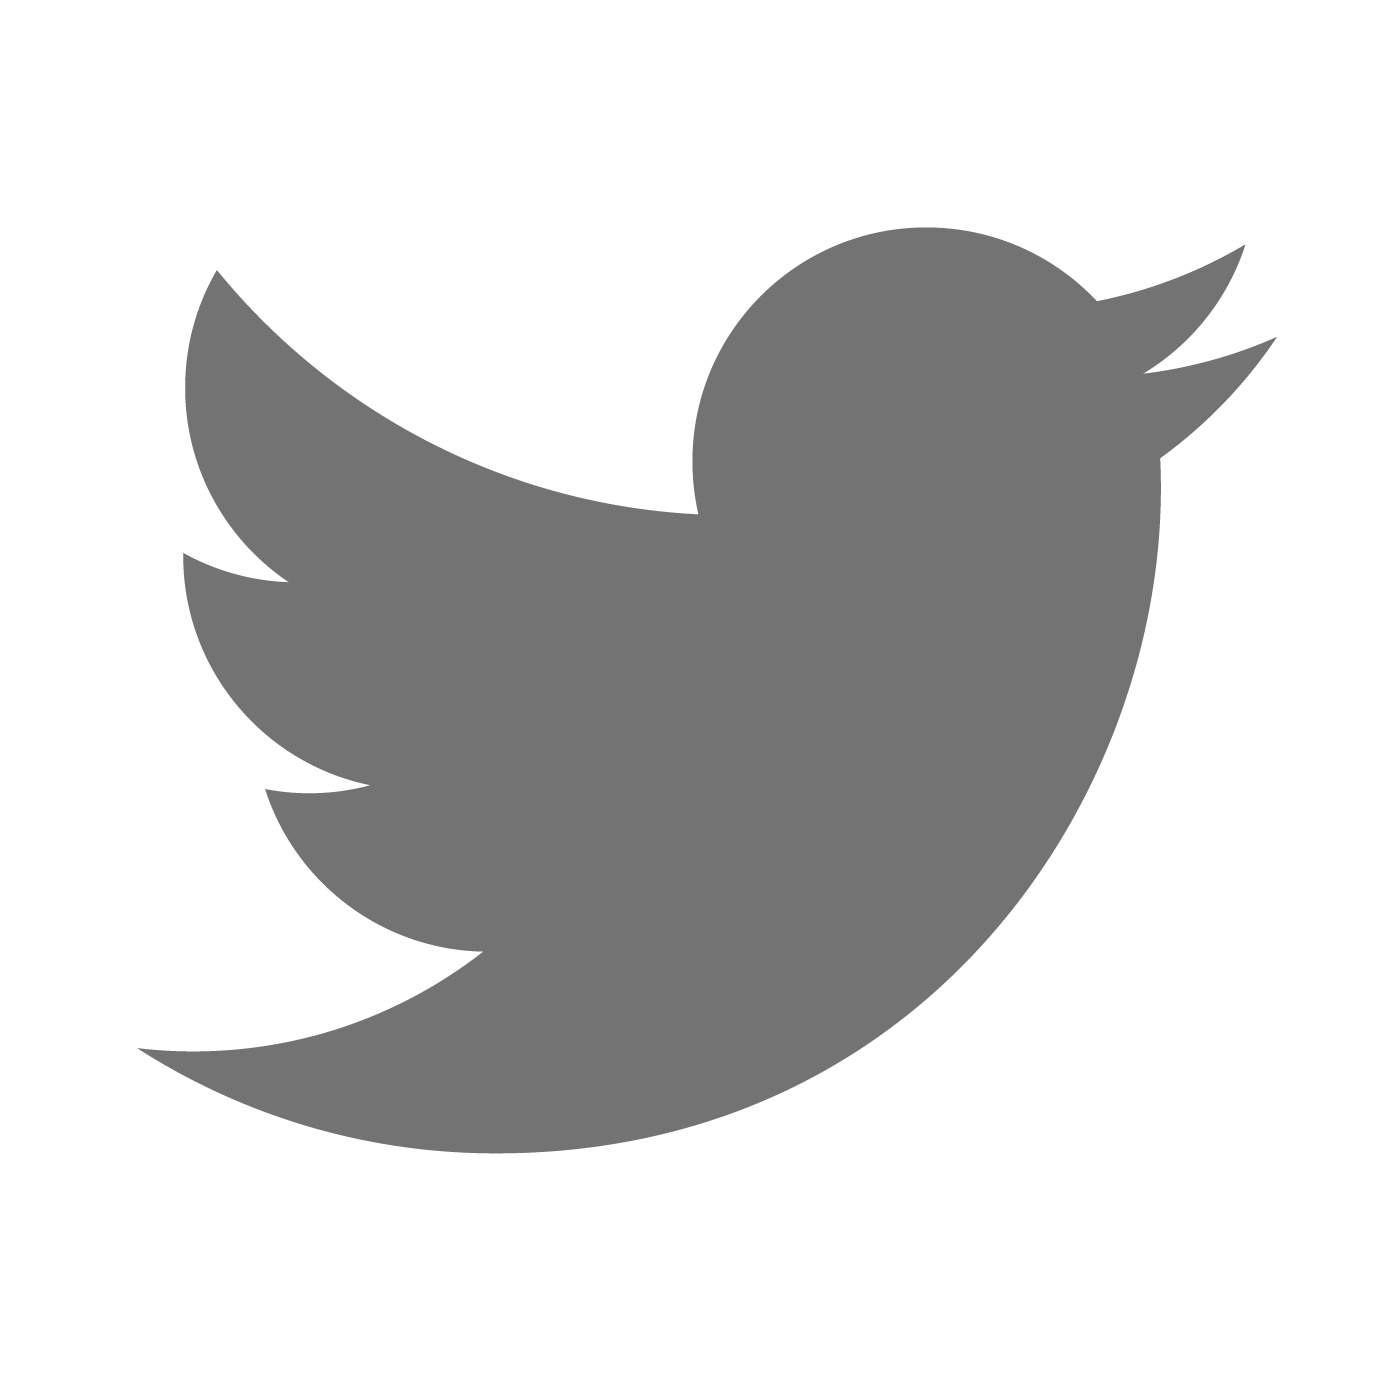
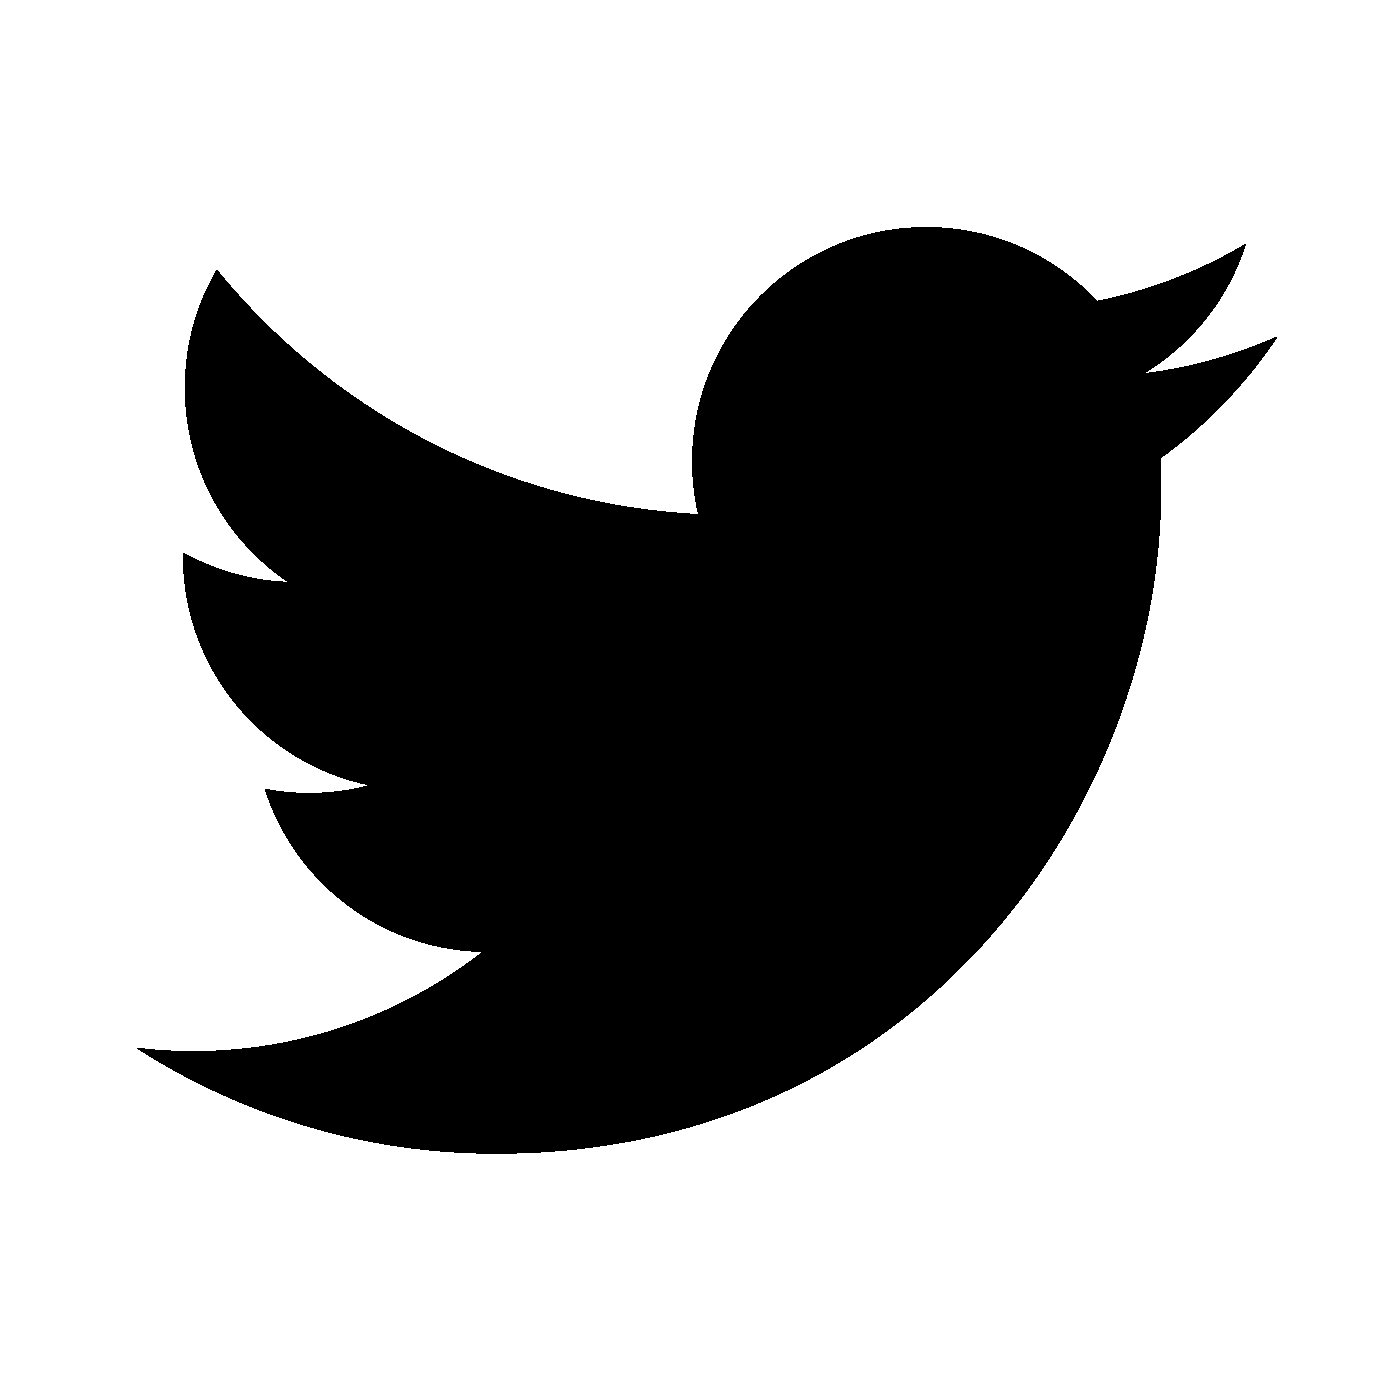
tresure_function

diff --git a/index.html b/index.html
@@ -3,25 +3,46 @@
 <head>
   <meta charset="utf-8">
   <link rel="stylesheet" href="css/normalize.css">
-  <link href="http://netdna.bootstrapcdn.com/font-awesome/4.1.0/css/font-awesome.min.css" rel="stylesheet">
   <link rel="stylesheet" href="css/styles.css">
     <title>nomoretype</title>
 </head>
 <body>
     <div id="profile">
 
-      <h1>About me</h1>
-      <img src="img/profile.png" width="150" height="150" alt="profile_icon" id="profile_icon" class="shadow">
-      <p>I am a college student. I want to be a programmer.</p>
+      <h1 id="alert">About me</h1>
+      <img src="img/profile.png" width="150" height="150" alt="profile_icon" id="profile_icon" onclick="rare()">
+      <p >I am a college student. I want to be a programmer.</p>
 
-      <ul id="menu">
-        <li id="twitter"><a href ="https://twitter.com/nomore1013"><img src="img/twitter2.png" alt="twitter_icon" class="menu_icon"></a></li>
-        <li id="github"><a href ="https://github.com/nomoretype"><img src="img/github.png" alt="github_icon" class="menu_icon"></a></li>
-        <li id="hatena"><a href ="http://noomore.hatenablog.com/"><img src="img/hatena.png" alt="hatena_icon" class="menu_icon"></a></li>
-        <li id="niconico"><a href ="http://www.nicovideo.jp/user/3500042"><img src="img/niconico.png" alt="niconico_icon" class="menu_icon"></a></li>
-        <li id="erosuke"><a href ="https://erogamescape.dyndns.org/~ap2/ero/toukei_kaiseki/user_infomation.php?user=nomore"><img src="img/erosuke.png" alt="erosuke_icon" class="menu_icon"></a></li>
+      <ul class="menu">
+        <li>
+          <a href ="https://twitter.com/nomore1013">
+            <img src="img/twitter.png" alt="twitter_icon" class="hover">
+          </a>
+        </li>
+        <li>
+          <a href ="https://github.com/nomoretype">
+            <img src="img/github.png" alt="github_icon" class="hover">
+          </a>
+        </li>
+        <li>
+          <a href ="http://noomore.hatenablog.com/">
+            <img src="img/hatena.png" alt="hatena_icon" class="hover">
+          </a>
+        </li>
+        <li>
+          <a href ="http://www.nicovideo.jp/user/3500042">
+            <img src="img/niconico.png" alt="niconico_icon" class="hover">
+          </a>
+        </li>
+        <li>
+          <a href ="https://erogamescape.dyndns.org/~ap2/ero/toukei_kaiseki/user_infomation.php?user=nomore">
+            <img src="img/erosuke.png" alt="erosuke_icon" class="hover">
+          </a>
+        </li>
       </ul>
 
     </div>
+  <script src="js/tresure.js">
+  </script>
 </body>
 </html>

diff --git a/css/styles.css b/css/styles.css
@@ -10,9 +10,15 @@ h1 {
   font-size: 36px;
   font-family: Arial;
 }
+h2 {
+  font-size: 14px;
+  color: #cccccc;
+  text-align: center;
+  margin: 0;
+}
 p {
   padding-top: 0;
-  padding-bottom: 20px;
+  padding-bottom: 10px;
 }
 ul {
   list-style: none;
@@ -29,22 +35,10 @@ ul:after {
   width: 100%;
   height: 0;
 }
-
+/* ---- */
 li {
   display: inline-block;
   margin-left: 0;
-}
-/* リンクの装飾削除 */
-a:link { color:#8f8f8f; text-decoration:none }
-a:visited { color:#8f8f8f; text-decoration:none }
-a:hover {
-  color:#e8e8e8;
-  text-decoration:none
-}
-a:active { color:#8f8f8f; text-decoration:none }
-
-.shadow {
-  box-shadow: 0 0 10px rgba(0, 0, 0, 0.3);
 }
 #profile {
   background: #fff;
@@ -65,12 +59,13 @@ a:active { color:#8f8f8f; text-decoration:none }
   border: medium solid #fff;
   border-radius: 50%;
   margin-bottom: 20px;
+  box-shadow: 0 0 10px rgba(0, 0, 0, 0.3);
 }
 .icon {
   border-radius: 50%;
   border: medium solid #fff;
 }
-img.menu_icon {
+a img {
   width: 50px;
   height: 50px;
   border: thin solid #fff;
@@ -78,6 +73,8 @@ img.menu_icon {
   box-shadow: 0 0 10px rgba(0, 0, 0, 0.3);
   cursor: pointer;
 }
-img.menu_icon:hover {
-  opacity: 0.4;
+a img:hover {
+  transition: 0.3s;
+  transform: translateY(3px);
+  box-shadow: 0 0 20px rgba(0, 0, 0, 0.3);
 }

diff --git a/js/tresure.js b/js/tresure.js
@@ -1,0 +1,12 @@
+charset="utf-8"
+
+var count = 0;
+function rare() {
+  if(count < 5) {
+    count++;
+    console.log("more click!");
+  } else {
+    var change = document.getElementById('alert');
+    change.innerHTML = "暇人ですか？";
+  }
+}
